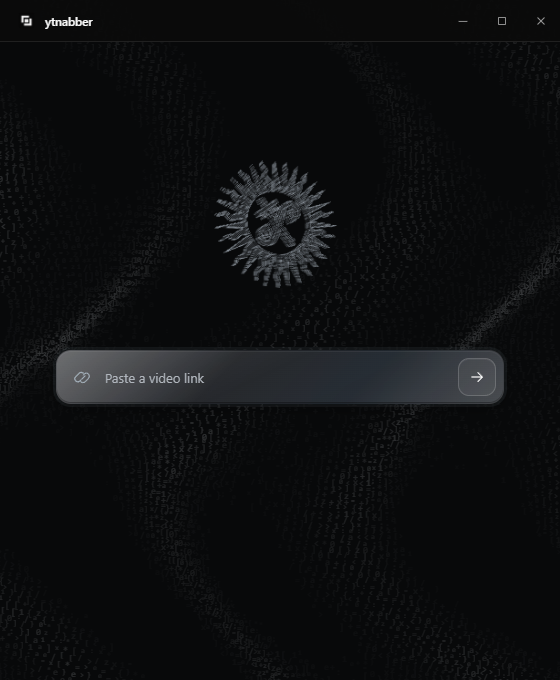
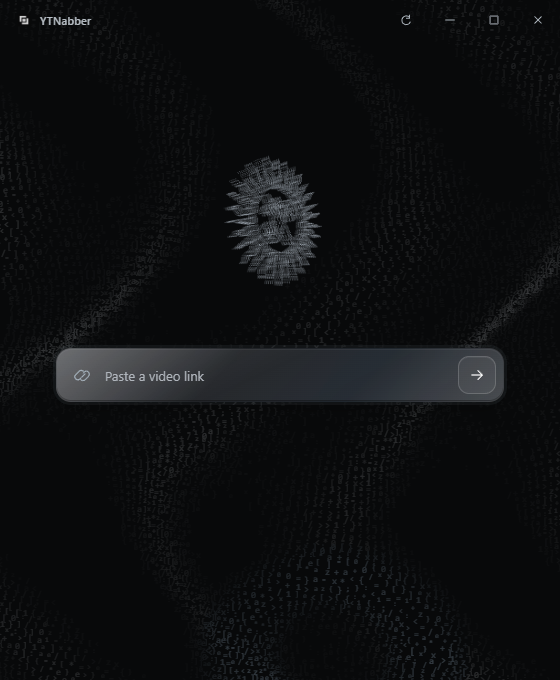
Refine titlebar

diff --git a/src/style.css b/src/style.css
@@ -26,14 +26,24 @@ svg { width: 18px; height: 18px; flex-shrink: 0; }
 .sr-only { position: absolute; width: 1px; height: 1px; padding: 0; overflow: hidden; clip: rect(0,0,0,0); white-space: nowrap; }
 #app { isolation: isolate; height: 100%; display: flex; flex-direction: column; }
 #field { position: fixed; inset: 0; width: 100%; height: 100%; z-index: -1; pointer-events: none; }
-.titlebar { height: 42px; flex-shrink: 0; display: flex; align-items: center; justify-content: space-between; border-bottom: 1px solid #202020; background: #0a0a0ae8; user-select: none; }
-.brand { display: flex; align-items: center; gap: 9px; padding-left: 17px; height: 100%; flex: 1; font-size: 12px; font-weight: 500; letter-spacing: -.2px; }
-.brand img { object-fit: contain; border-radius: 4px; pointer-events: none; }
-.window-actions { display: flex; height: 100%; }
-.window-actions button { width: 39px; border: none; border-radius: 0; background: transparent; color: #a1a1a1; display: grid; place-items: center; }
-.window-actions button:hover:not(:disabled) { background: #262626; color: #fafafa; }
-.window-actions #close:hover { background: #422424; }
-.window-actions svg { width: 14px; height: 14px; stroke: currentColor; stroke-width: 1; fill: none; }
+.titlebar { height: 40px; flex-shrink: 0; display: flex; align-items: center; justify-content: space-between; background: transparent; user-select: none; app-region: drag; }
+.brand { display: flex; align-items: center; gap: 8px; padding-left: 16px; height: 100%; flex: 1; font-size: 11px; line-height: 1; font-weight: 500; letter-spacing: .15px; color: #b9c0c7; text-shadow: 0 1px 6px #08090a; }
+.brand > * { pointer-events: none; }
+.brand img { object-fit: contain; opacity: .85; }
+.window-actions { display: flex; align-self: center; height: 36px; app-region: no-drag; }
+.window-actions button { position: relative; isolation: isolate; width: 44px; padding: 0; border: none; border-radius: 0; background: transparent; color: #a9b1b9; display: grid; place-items: center; cursor: default; transition: color 120ms; }
+.window-actions button::before { content: ""; position: absolute; z-index: -1; inset: 4px; border-radius: 5px; background: linear-gradient(160deg, rgb(197 216 231 / .08), rgb(15 19 24 / .32)); box-shadow: inset 0 1px 0 rgb(225 237 247 / .06), 0 0 12px rgb(174 200 220 / .025); backdrop-filter: blur(8px); opacity: 0; transition: opacity 120ms; }
+.window-actions button:hover:not(:disabled) { background: transparent; color: #edf2f6; }
+.window-actions button:hover:not(:disabled)::before { opacity: 1; }
+.window-actions #close:hover:not(:disabled) { color: #f0d6d6; }
+.window-actions #close::before { background: linear-gradient(160deg, rgb(204 147 147 / .1), rgb(44 21 25 / .3)); }
+.window-actions button:active:not(:disabled) { transform: none; color: #fff; transition: none; }
+.window-actions button:active:not(:disabled)::before { opacity: 1; background: rgb(189 211 230 / .14); box-shadow: inset 0 1px 3px rgb(0 0 0 / .3); transition: none; }
+.window-actions #close:active:not(:disabled)::before { background: rgb(192 113 113 / .2); }
+.window-actions button:focus-visible { outline-offset: -6px; }
+.window-actions svg { width: 14px; height: 14px; stroke: currentColor; stroke-width: 1.15; fill: none; pointer-events: none; filter: drop-shadow(0 1px 2px #08090a); }
+.window-actions .restore-icon, .window-actions [data-maximized="true"] .maximize-icon { display: none; }
+.window-actions [data-maximized="true"] .restore-icon { display: block; }
 main { flex: 1; overflow: auto; padding: 0 40px 20px; scrollbar-width: thin; scrollbar-color: #333 transparent; }
 .identity { width: 164px; height: 164px; margin: clamp(78px, 15vh, 126px) auto 42px; transition: width 420ms cubic-bezier(.22,.7,.2,1), height 420ms cubic-bezier(.22,.7,.2,1), margin 420ms cubic-bezier(.22,.7,.2,1); }
 #emblem { display: block; width: 100%; height: 100%; }
@@ -150,8 +160,17 @@ legend, .quality-field label { display: block; padding: 0; margin-bottom: 8px; f
 @media (prefers-reduced-motion: reduce) { *, *::before, *::after { animation: none !important; transition: none !important; } .indeterminate #progress-fill { width: 100% !important; opacity: .35; } }
 @media (prefers-reduced-transparency: reduce), (prefers-contrast: more) {
   .url-control, .format-options, .destination, #quality { background: #171717; backdrop-filter: none; border: 1px solid #737373; }
+  .titlebar { background: #0a0a0a; }
+  .brand, .window-actions button { color: #fafafa; }
+  .window-actions button::before { backdrop-filter: none; }
+  .window-actions button:hover:not(:disabled)::before, .window-actions button:active:not(:disabled)::before { background: #262b30; }
 }
 @media (forced-colors: active) {
   .url-control, .format-options, .destination, #quality { background: Canvas; color: CanvasText; border-color: ButtonText; backdrop-filter: none; }
   button { forced-color-adjust: auto; }
+  .titlebar { background: Canvas; }
+  .brand, .window-actions button { color: ButtonText; text-shadow: none; }
+  .window-actions button:hover:not(:disabled), .window-actions button:active:not(:disabled), .window-actions #close:hover:not(:disabled), .window-actions #close:active:not(:disabled) { color: HighlightText; background: Highlight; }
+  .window-actions button::before { display: none; }
+  .window-actions svg { filter: none; }
 }

diff --git a/src/main.ts b/src/main.ts
@@ -18,13 +18,13 @@ const folderIcon = '<svg viewBox="0 0 20 20" fill="none" aria-hidden="true"><pat
 
 document.querySelector<HTMLDivElement>("#app")!.innerHTML = `
   <canvas id="field" aria-hidden="true"></canvas>
-  <header class="titlebar">
-    <div class="brand"><img src="/logo.png" alt="" width="19" height="19"><span>ytnabber</span></div>
+  <header class="titlebar" data-tauri-drag-region>
+    <div class="brand" data-tauri-drag-region><img src="/logo.png" alt="" width="16" height="16" draggable="false"><span>YTNabber</span></div>
     <div class="window-actions">
-      <button id="engine-check" aria-label="Check download engine updates" title="Check download engine updates"><svg viewBox="0 0 16 16"><path d="M12 5a5 5 0 1 0 1 5M12 2v4H8"/></svg></button>
-      <button id="minimize" aria-label="Minimize" title="Minimize"><svg viewBox="0 0 16 16"><path d="M3 8.5h10"/></svg></button>
-      <button id="maximize" aria-label="Maximize or restore" title="Maximize or restore"><svg viewBox="0 0 16 16"><rect x="4" y="4" width="8" height="8" rx=".5"/></svg></button>
-      <button id="close" aria-label="Close" title="Close"><svg viewBox="0 0 16 16"><path d="m4 4 8 8m0-8-8 8"/></svg></button>
+      <button id="engine-check" aria-label="Check download engine updates" title="Check download engine updates"><svg viewBox="0 0 16 16" aria-hidden="true"><path d="M12 5a5 5 0 1 0 1 5M12 2v4H8"/></svg></button>
+      <button id="minimize" aria-label="Minimize" title="Minimize"><svg viewBox="0 0 16 16" aria-hidden="true"><path d="M3 8h10"/></svg></button>
+      <button id="maximize" aria-label="Maximize" title="Maximize"><svg class="maximize-icon" viewBox="0 0 16 16" aria-hidden="true"><rect x="3.5" y="3.5" width="9" height="9" rx=".5"/></svg><svg class="restore-icon" viewBox="0 0 16 16" aria-hidden="true"><path d="M5.5 5.5v-2h7v7h-2"/><rect x="3.5" y="5.5" width="7" height="7" rx=".5"/></svg></button>
+      <button id="close" aria-label="Close" title="Close"><svg viewBox="0 0 16 16" aria-hidden="true"><path d="m4 4 8 8m0-8-8 8"/></svg></button>
     </div>
   </header>
   <main id="main">
@@ -264,10 +264,15 @@ if (isTauri()) {
     if (request) await invoke("cancel_job", { kind: "metadata", requestId: request }).catch(() => {});
     await window.close();
   });
-  document.querySelector<HTMLElement>(".titlebar")!.addEventListener("pointerdown", event => {
-    if (event.button !== 0 || (event.target as HTMLElement).closest("button")) return;
-    void window.startDragging();
-  });
+  async function updateMaximizeButton() {
+    const maximized = await window.isMaximized();
+    const button = element<HTMLButtonElement>("maximize");
+    button.dataset.maximized = String(maximized);
+    button.setAttribute("aria-label", maximized ? "Restore" : "Maximize");
+    button.title = maximized ? "Restore" : "Maximize";
+  }
+  await window.onResized(updateMaximizeButton);
+  await updateMaximizeButton();
   await listen<Progress>("download-progress", ({ payload }) => {
     if (payload.requestId !== activeDownload || stopped) return;
     const processing = payload.phase === "processing";

diff --git a/docs/IMPLEMENTATION.md b/docs/IMPLEMENTATION.md
@@ -13,7 +13,9 @@ There are no accounts, queues, history, playlists, telemetry, database or backgr
 
 The Graphite reference supplies the monochrome palette and compact Windows system typography. Later feedback adds a restrained glass material on the URL control and simpler dark controls, an off-white Download button and selected format, and a dark quality picker.
 
-At 560 × 680, the title bar is 42px. A centered 164px point emblem becomes a 58px emblem when metadata arrives. The source thumbnail is letterboxed without cropping its aspect ratio. The title, formats, actual video heights, destination and one Download action remain in the same scrollable window.
+At 560 × 680, the title bar is 40px. It has no separate fill or divider: the existing character field continues behind the compact logo, wordmark and window controls. Thin geometric icons have a subtle smoked-glass surface only on hover or press, with an inset keyboard focus indicator. High contrast and reduced transparency restore a solid surface. A centered 164px point emblem becomes a 58px emblem when metadata arrives. The source thumbnail is letterboxed without cropping its aspect ratio. The title, formats, actual video heights, destination and one Download action remain in the same scrollable window.
+
+The title bar uses [Tauri's custom titlebar mechanism](https://v2.tauri.app/learn/window-customization/): `data-tauri-drag-region` handles dragging and double-click maximization, with `app-region: drag` for Windows touch and pen support. Controls opt out of the drag region. Resize events synchronize the maximize/restore icon and accessible label, including changes initiated outside the button. Resizability, window constraints and close-time job cancellation remain in the existing native configuration and handlers. The custom maximize button does not implement Windows 11's native hover Snap Layouts flyout; window snapping remains delegated to Windows and Tauri.
 
 The native customizable select preserves browser keyboard and accessibility behavior. Its picker is anchored below the trigger with no upward fallback and an available-height limit. Older runtimes receive explicit dark option colors. Errors and completion are inline messages; real download progress uses a simple two-pixel line. Metadata fetching has a restrained orbital indicator and moving input-edge reflection. Removed explanatory footer copy stays absent.
 

diff --git a/docs/VERIFICATION.md b/docs/VERIFICATION.md
@@ -2,6 +2,20 @@
 
 Verified on 29 October 2026 in the project's Windows x64 development environment.
 
+## Titlebar redesign checks
+
+The transparent 40px titlebar was checked separately after the original release verification below:
+
+- `npm test`: 5 passed after integrating the latest remote changes.
+- `cargo test --manifest-path src-tauri/Cargo.toml`: 14 passed, 9 opt-in engine/network tests ignored after integration.
+- `npm run build`: TypeScript and production assets passed.
+- `tests/titlebar.browser.mjs`: passed in headless Edge at device scales 1, 1.5 and 2. It checks a continuous animated character field behind the transparent titlebar, no divider, aligned logo/control centers, hover and pressed states, minimize/maximize/close IPC, maximize/restore icon and accessible label synchronization on resize, keyboard activation/focus, compact layout, reduced motion, increased contrast and forced colors. Tauri IPC and events are mocked; this is not a native Windows interaction test.
+- Before integrating the remote engine/format additions, the existing complete UI check passed for animation, metadata, formats, destination, progress, processing, cancellation, success and compact layout. The titlebar check and frontend/native suites above were repeated after integration.
+
+To repeat the titlebar check, start `npm run dev`, make an existing Playwright installation resolvable (or set `PLAYWRIGHT_MODULE` to its module path), then run `node tests/titlebar.browser.mjs`. Microsoft Edge must be installed. The check saves screenshots under the ignored `artifacts/` directory; it adds no application dependency.
+
+Native drag, double-click, edge resizing, physical multi-monitor DPI changes and Windows snapping were not interactively verified for this change: the user requested no Computer Use. The existing Tauri window configuration is unchanged, and drag/double-click handling now uses the framework's documented mechanism. No new installer or GitHub release was published for this source change.
+
 ## Results
 
 | Check | Evidence |
